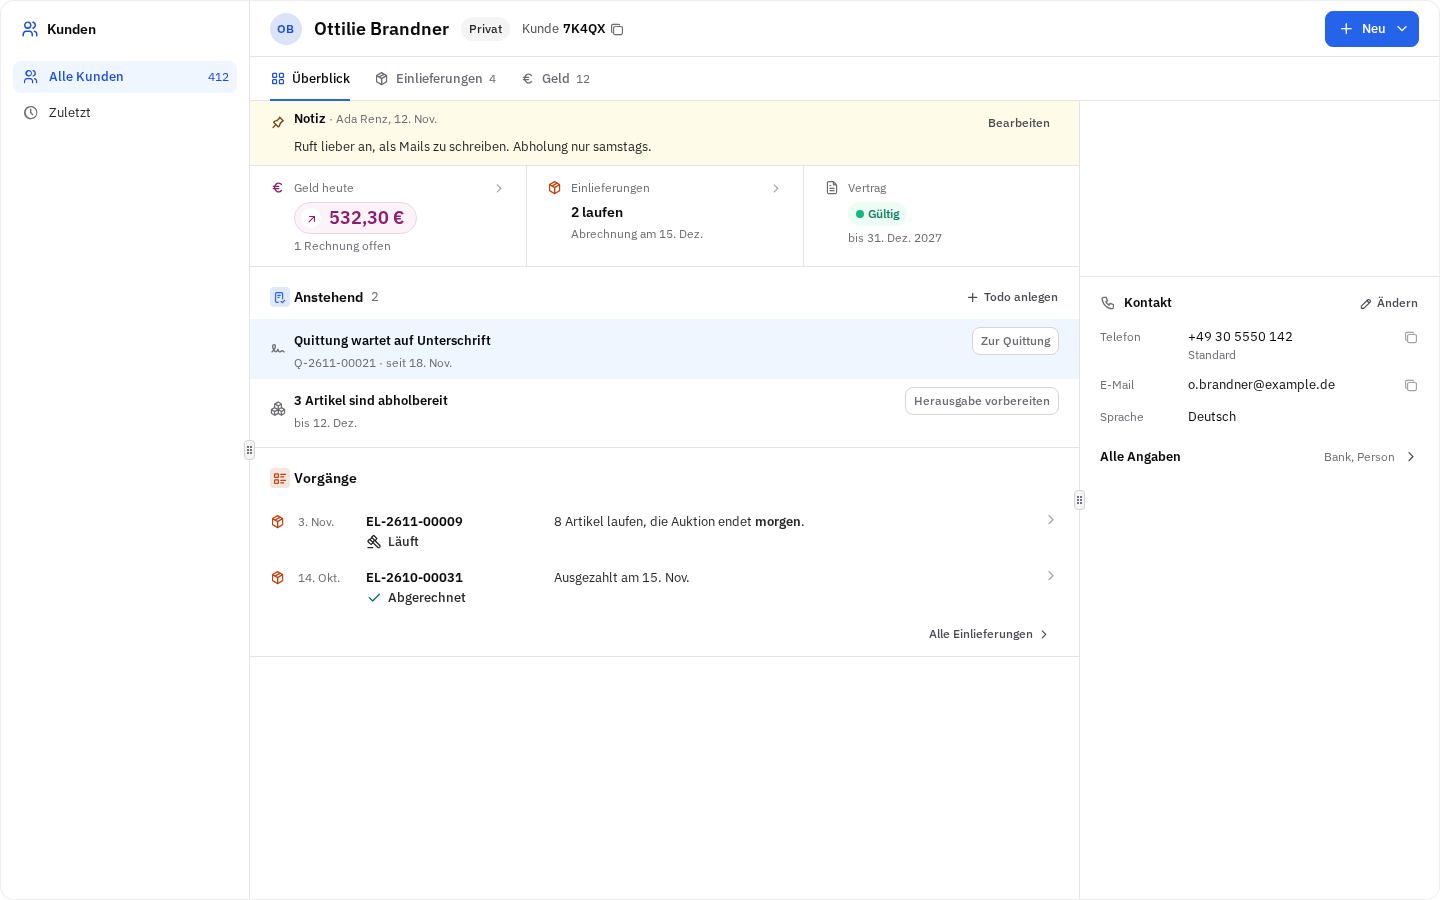
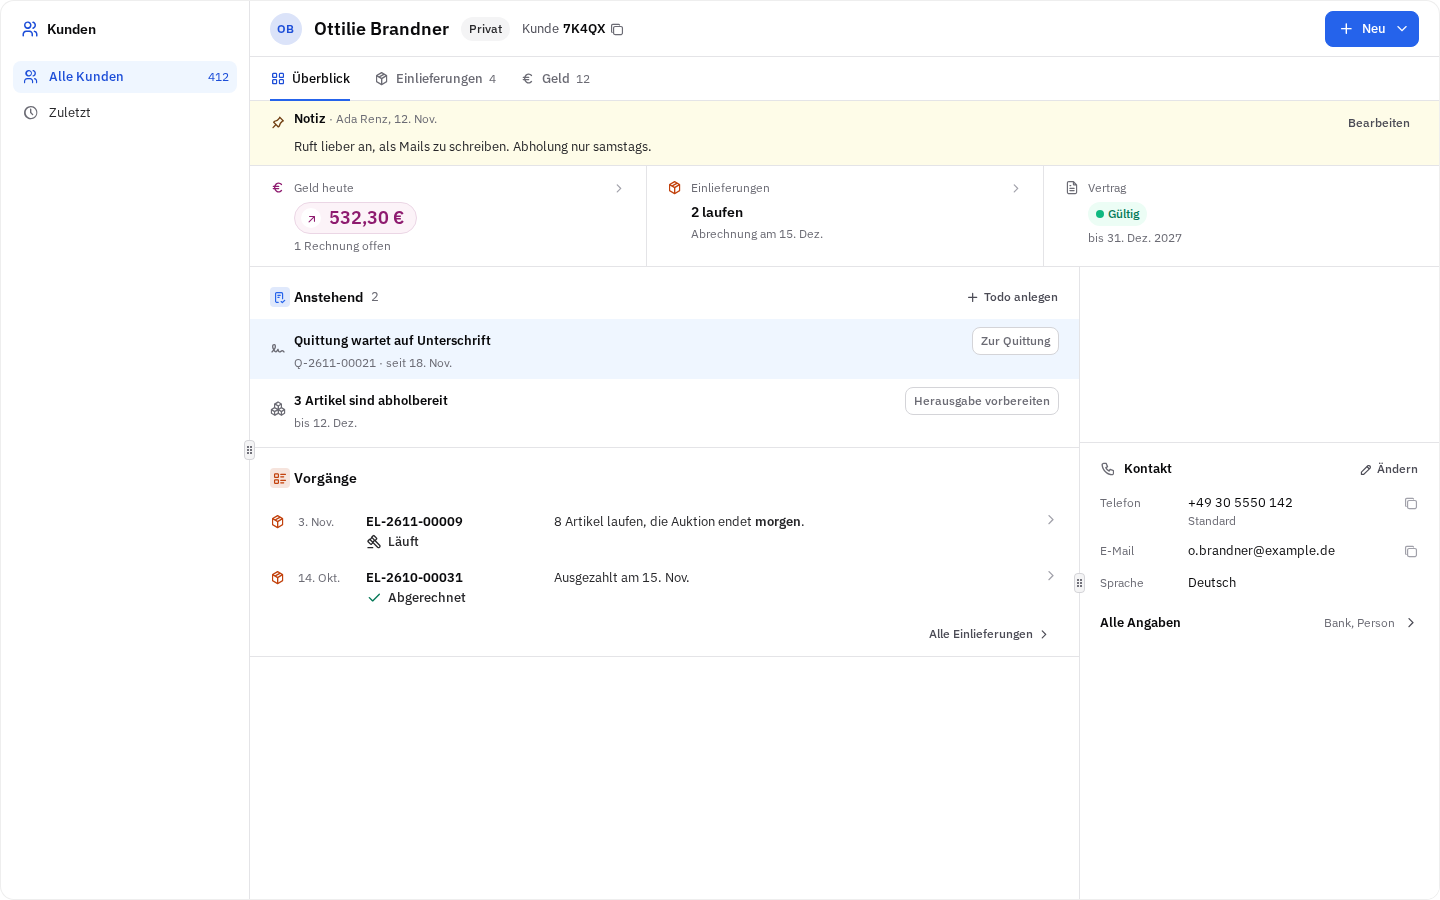
feat(ui): the k2b-ui skill names the v2 layout of a Cloud page and marks disabled buttons in the outline

diff --git a/packages/ui/src/v2/describe.ts b/packages/ui/src/v2/describe.ts
@@ -102,7 +102,8 @@ export function describeV2(root: Element, options: DescribeV2Options = {}): stri
     if (name === "Button") {
       const label = element.getAttribute("aria-label") ?? textOf(element);
       const variant = element.getAttribute("data-variant");
-      return `[${quote(label, 40)}${variant ? ` ${variant}` : ""}${element.hasAttribute("data-menu") ? " menu" : ""}${element.tagName === "A" ? " link" : ""}]`;
+      const disabled = element.hasAttribute("disabled") || element.getAttribute("aria-disabled") === "true";
+      return `[${quote(label, 40)}${variant ? ` ${variant}` : ""}${element.hasAttribute("data-menu") ? " menu" : ""}${element.tagName === "A" ? " link" : ""}${disabled ? " disabled" : ""}]`;
     }
     if (name === "Chip") {
       const kind = element.getAttribute("data-status") ?? element.getAttribute("data-kind");

diff --git a/packages/ui/skills/k2b-ui/SKILL.md b/packages/ui/skills/k2b-ui/SKILL.md
@@ -45,8 +45,11 @@ import { Workspace, Pane, Bar, List, Row } from "@k2b/ui/v2";
 ```
 
 - Styles: `@k2b/ui/v2.css`. Every v2 class lives under the scope class
-  `k2-ui` on an ancestor (the page template's `<body>`, never a screen).
-  In the Cloud monorepo `packages/cloud/src/styles/global.css` loads v2.css.
+  `k2-ui` on an ancestor, never set by a screen.
+- In a Cloud app, a page opts in with `ui: "v2"` on its layout; the layout
+  puts `k2-ui` on the page's main area and loads v2.css with the app's accent
+  tokens. Outside Cloud, the page template puts `class="k2-ui"` on `<body>`
+  and loads `@k2b/ui/v2.css`.
 - A screen is a component that returns one `Workspace`.
 - Strings come from the app's message catalog; recipes inline German sample
   text only to look like the real thing.
